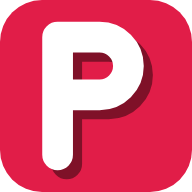
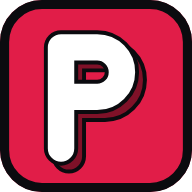
La pegatina no es solo el icono: es la regla de todo el programa
El logotipo elegido es la P con contorno negro y canto. Lo que importa no
es el dibujo, sino que la misma regla baja a la interfaz entera:

  TODA PIEZA RELLENA DE COLOR ES UNA PEGATINA.
  Lleva su contorno oscuro, que la recorta del fondo, y su canto debajo,
  que le da cuerpo. Lo que no está relleno, no lleva ninguna de las dos.

Dos variables, --contorno y --canto, y con eso se viste el programa:

- Las pastillas de estado rellenas -«Vencido», «Por vencer»- ahora se
  recortan del fondo en vez de flotar sobre él.
- La acción principal lleva contorno y canto, y al pulsarla el canto se
  hunde y el botón baja: se nota en el dedo que algo pasó.
- El azulejo del logo de cada plataforma es una pegatina pequeña, así que
  los logos se ven pegados encima y no dibujados dentro.
- El «Entrar» de cada plataforma también, pero con SU color: el canto se
  calcula con color-mix sobre el propio tono, así que una cuenta de
  Spotify no lleva el canto rojo de PAPOTAS.

EL ICONO

Cuatro capas -contorno y relleno del canto, contorno y relleno de la
cara- y el azulejo con su canto negro alrededor. La letra va al 86% para
que quepa CON el contorno; sin eso se sale y Android recorta media P.
Todo medido en módulos de u=64 y comprobado por la batería: si alguien
toca uno de esos números a ojo, la prueba se cae y lo dice.

Claude-Session: https://claude.ai/code/session_01EfAax8gVVUdZwWK6sWAxwo

diff --git a/papotas-nuevo.html b/papotas-nuevo.html
@@ -58,6 +58,10 @@
   --marca:#e11d48;
   --marca-alta:#f43f5e;
   --marca-canto:#7f1128;     /* el canto del logo, que baja a los botones */
+  /* La pegatina, en dos piezas. Con estas dos el programa entero se viste
+     igual que el logotipo, y solo hace falta cambiarlas aquí. */
+  --contorno:rgba(0,0,0,.62);   /* la línea que recorta la pieza del fondo */
+  --canto:rgba(0,0,0,.30);      /* la sombra bajo la cara, que le da cuerpo */
   --marca-suave:rgba(225,29,72,.13);
   --marca-linea:rgba(225,29,72,.33);
 
@@ -108,6 +112,8 @@ html[data-tema="claro"]{
   --tinta-bien:#ffffff;
   --tinta-info:#ffffff;
   --marca-canto:#9f1239;
+  --contorno:rgba(0,0,0,.42);
+  --canto:rgba(0,0,0,.18);
   --marca-suave:rgba(225,29,72,.08);
   --marca-linea:rgba(225,29,72,.24);
   --mal:#be123c;   --mal-fondo:rgba(225,29,72,.08);  --mal-linea:rgba(225,29,72,.22);
@@ -282,7 +288,8 @@ a{color:inherit}
    mal puesto. */
 .btn.principal{
   background:var(--marca);border-color:var(--marca);color:#fff;
-  box-shadow:inset 0 -3px 0 0 var(--marca-canto), var(--sombra-1);
+  box-shadow:0 0 0 1.5px var(--contorno),
+             inset 0 -3px 0 0 var(--marca-canto), var(--sombra-1);
   transition:background var(--rapido) var(--curva),
              box-shadow var(--rapido) var(--curva),
              transform var(--rapido) var(--curva);
@@ -290,7 +297,7 @@ a{color:inherit}
 .btn.principal:hover{background:var(--marca-alta);border-color:var(--marca-alta)}
 .btn.principal:active{
   transform:translateY(1px);
-  box-shadow:inset 0 -1px 0 0 var(--marca-canto);
+  box-shadow:0 0 0 1.5px var(--contorno), inset 0 -1px 0 0 var(--marca-canto);
 }
 @media (prefers-reduced-motion: reduce){
   .btn.principal:active{transform:none}
@@ -514,10 +521,14 @@ button.metrica:hover{background:var(--capa-alta)}
 .f.aviso::before{background:var(--aviso)}
 .f.bien::before{background:var(--bien)}
 .f:hover{background:var(--capa-alta)}
+/* El azulejo de cada plataforma es una pegatina pequeña: lleva su contorno
+   y su canto, igual que la P. Por eso los logos se ven pegados encima y no
+   dibujados dentro. */
 .f-marca{
   width:32px;height:32px;border-radius:9px;flex:0 0 auto;
   display:grid;place-items:center;font-size:13px;font-weight:700;color:#fff;
   letter-spacing:-.03em;position:relative;overflow:hidden;
+  box-shadow:0 0 0 1.5px var(--contorno), inset 0 -2px 0 0 var(--canto);
 }
 /* El logo tapa la inicial SOLO cuando de verdad ha cargado.
    El fondo blanco estaba puesto en la propia imagen, así que una imagen a
@@ -923,7 +934,17 @@ html[data-tema="claro"] .ficha::after{opacity:.10}
    siempre se lea (Spotify verde pide texto oscuro; Netflix rojo, claro). */
 .ficha-mando .btn.principal, .plat-hero .mando .btn.principal{
   background:var(--tono-btn);border-color:var(--tono-btn);color:var(--tono-txt);
-  box-shadow:var(--brillo);
+  /* Misma pegatina, pero con el color de la plataforma: contorno, canto y
+     un brillo. El canto se calcula con `color-mix` sobre el propio tono, así
+     que una cuenta de Spotify verde no lleva el canto rojo de PAPOTAS. */
+  box-shadow:0 0 0 1.5px var(--contorno),
+             inset 0 -3px 0 0 color-mix(in srgb, var(--tono-btn) 62%, #000),
+             var(--brillo);
+}
+.ficha-mando .btn.principal:active, .plat-hero .mando .btn.principal:active{
+  transform:translateY(1px);
+  box-shadow:0 0 0 1.5px var(--contorno),
+             inset 0 -1px 0 0 color-mix(in srgb, var(--tono-btn) 62%, #000);
 }
 .ficha-mando .btn.principal:hover, .plat-hero .mando .btn.principal:hover{
   filter:brightness(1.1);
@@ -2600,7 +2621,12 @@ html[data-tema="claro"] .hoja::after{opacity:.09}
 .pastilla svg{width:12px;height:12px;stroke-width:2.6;flex:0 0 auto}
 .pastilla b{font-weight:750}
 .pastilla i{font-style:normal;opacity:.75;font-weight:600}
-/* Lo que pide acción va relleno: se ve antes que nada en la pantalla. */
+/* Lo que pide acción va relleno: se ve antes que nada en la pantalla.
+   Y va como el logotipo: su contorno oscuro y su canto debajo. Es la misma
+   regla, no un parecido -toda pieza rellena de color es una pegatina-. */
+.pastilla.llena{
+  box-shadow:0 0 0 1.5px var(--contorno), inset 0 -2px 0 0 var(--canto);
+}
 .pastilla.llena.mal   {background:var(--mal);   color:var(--tinta-mal)}
 .pastilla.llena.aviso {background:var(--aviso); color:var(--tinta-aviso)}
 .pastilla.llena.bien  {background:var(--bien);  color:var(--tinta-bien)}
@@ -2798,21 +2824,32 @@ html[data-tema="claro"] .hoja::after{opacity:.09}
   <!-- Carril lateral: solo en pantalla ancha. Iconos con su nombre debajo,
        que es lo que de verdad se lee rápido. -->
   <nav id="carril" aria-label="Secciones">
-    <!-- La marca «Bloque». u = 64, el trazo mide 1.28u y el canto se
-         desplaza 0.38u en diagonal. Los extremos son redondos, con el radio
-         a la mitad del grosor; la P se apoya en la rejilla, no está puesta
-         a ojo. El canto no es un adorno: es la regla que baja al programa,
-         donde lo que se pulsa lleva canto y lo que no se pulsa es plano.
+    <!-- La marca «Pegatina». Sistema medido en módulos de u = 64:
+         trazo 1.28u · canto 0.38u · contorno 0.19u · radios a la mitad del
+         lado corto. La letra va al 86% para que quepa CON su contorno; sin
+         eso se sale del azulejo y Android recorta media P.
+         El orden de las capas importa: el canto con su contorno primero, la
+         cara con el suyo después, para que se lea una pieza con volumen y
+         no dos letras superpuestas.
+         Y el canto no es adorno: es la regla que baja al programa, donde lo
+         que se pulsa lo lleva y lo que no se pulsa es plano.
          Es el mismo dibujo que queda de icono al instalar. -->
     <div id="marca" aria-hidden="true">
       <svg viewBox="0 0 512 512">
         <rect width="512" height="512" rx="112" fill="var(--marca)"/>
-        <g fill="none" stroke-width="81.92" stroke-linecap="round" stroke-linejoin="round">
+        <g transform="translate(256 256) scale(.86) translate(-262 -250)"
+           fill="none" stroke-linecap="round" stroke-linejoin="round">
           <path d="M153.6 412.8 V99.2 H265.6 a76.8 76.8 0 0 1 0 153.6 H153.6"
-                stroke="var(--marca-canto)" transform="translate(24.32 24.32)"/>
+                stroke="#0b0b0f" stroke-width="106.24" transform="translate(24.32 24.32)"/>
           <path d="M153.6 412.8 V99.2 H265.6 a76.8 76.8 0 0 1 0 153.6 H153.6"
-                stroke="#fff"/>
+                stroke="var(--marca-canto)" stroke-width="81.92" transform="translate(24.32 24.32)"/>
+          <path d="M153.6 412.8 V99.2 H265.6 a76.8 76.8 0 0 1 0 153.6 H153.6"
+                stroke="#0b0b0f" stroke-width="106.24"/>
+          <path d="M153.6 412.8 V99.2 H265.6 a76.8 76.8 0 0 1 0 153.6 H153.6"
+                stroke="#fff" stroke-width="81.92"/>
         </g>
+        <rect x="12.16" y="12.16" width="487.68" height="487.68" rx="99.84"
+              fill="none" stroke="#0b0b0f" stroke-width="24.32"/>
       </svg>
     </div>
     <button class="nav-btn" data-ir="hoy" aria-current="page">
@@ -2838,7 +2875,7 @@ html[data-tema="claro"] .hoja::after{opacity:.09}
       <a class="carril-mini" id="btn-volver-viejo" href="index.html" title="Volver al PAPOTAS de siempre" aria-label="Volver al PAPOTAS de siempre">
         <svg viewBox="0 0 24 24" fill="none" stroke="currentColor" stroke-linecap="round" stroke-linejoin="round"><path d="M9 14 4 9l5-5"/><path d="M4 9h11a5 5 0 0 1 0 10h-1"/></svg>
       </a>
-      <span id="sello-carril" title="Si esto no coincide con la última versión, estás abriendo una copia guardada antigua">v5.1</span>
+      <span id="sello-carril" title="Si esto no coincide con la última versión, estás abriendo una copia guardada antigua">v5.2</span>
     </div>
   </nav>
 
@@ -4240,7 +4277,7 @@ function aplicarRespaldo(rec){
 
 /* ---------- 6. Piezas de interfaz --------------------------------------- */
 
-const VERSION = 'v5.1';
+const VERSION = 'v5.2';
 
 const $  = function(s, d){ return (d||document).querySelector(s); };
 const $$ = function(s, d){ return Array.prototype.slice.call((d||document).querySelectorAll(s)); };

diff --git a/sw.js b/sw.js
@@ -15,7 +15,7 @@
    Ojo: esto NO guarda tus datos. Tus datos viven en el propio navegador y, si
    configuras la nube, en Supabase. Esto solo guarda el programa. */
 
-const CACHE = 'papotas-v29';
+const CACHE = 'papotas-v30';
 const BASICOS = ['./', './index.html', './papotas-nuevo.html', './manifest.webmanifest',
   './icono.svg', './icon-192.png', './icon-512.png',
   './icon-maskable-192.png', './icon-maskable-512.png', './apple-touch-icon.png'];
